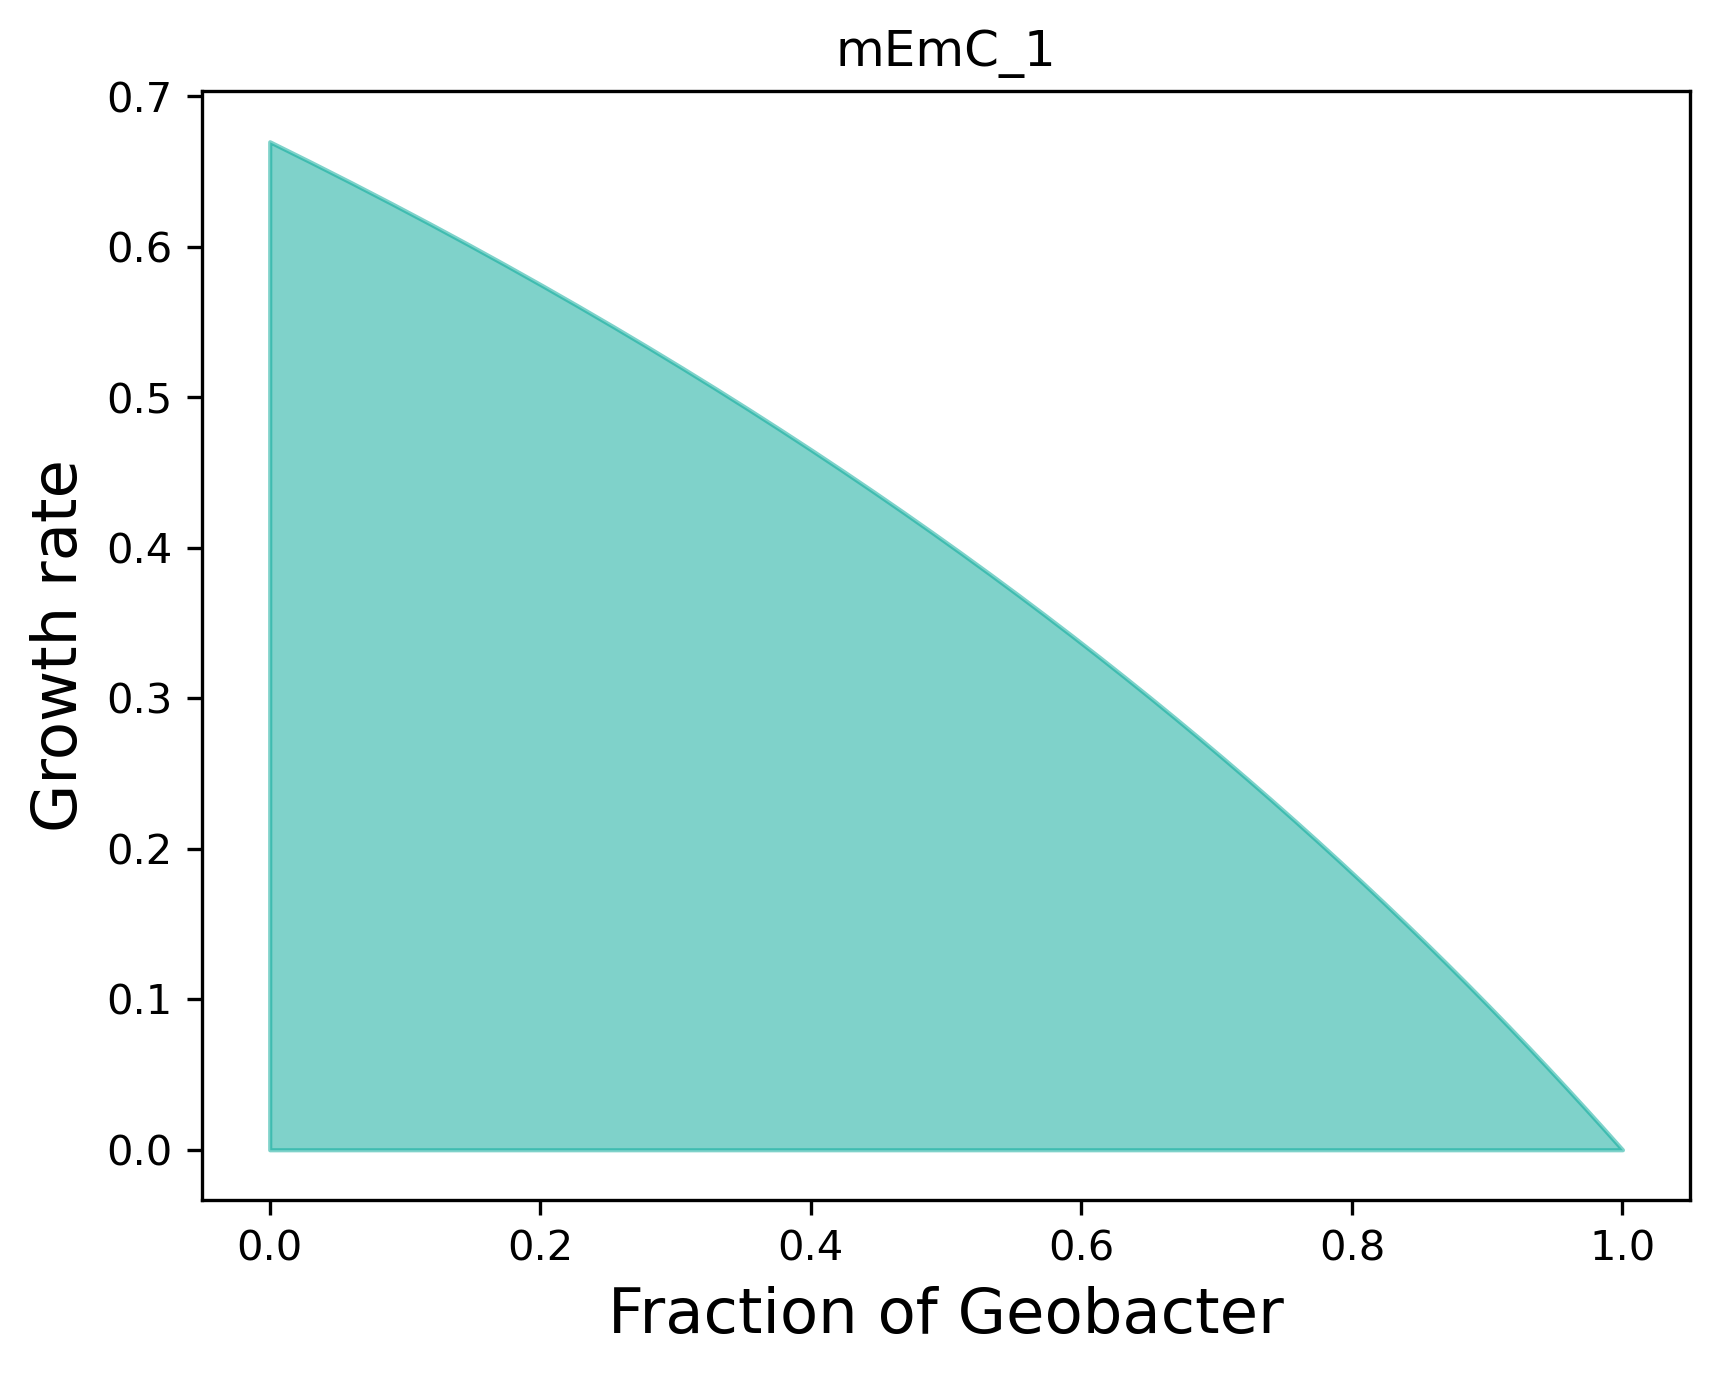
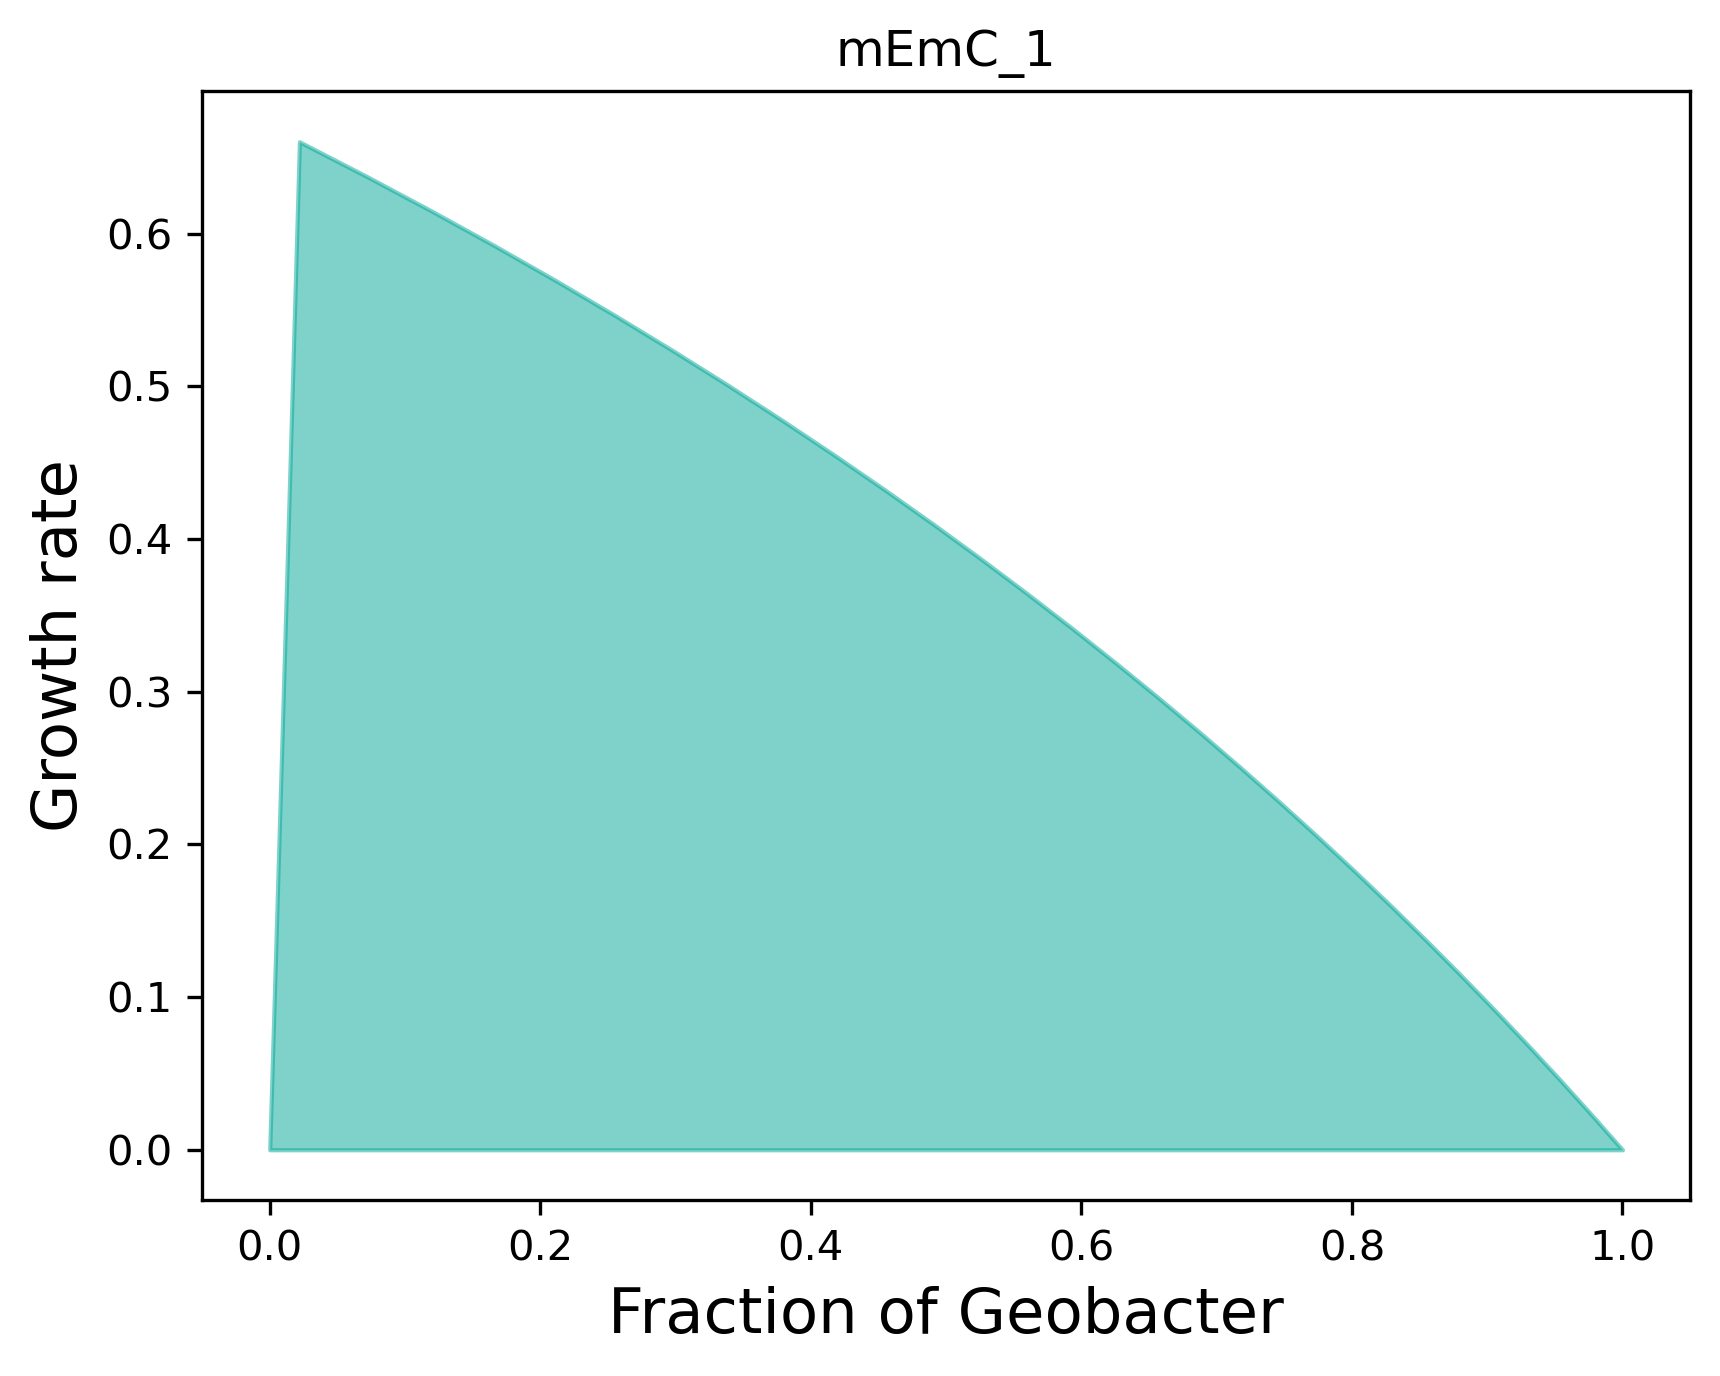
cleanup

diff --git a/README.md b/README.md
@@ -14,7 +14,10 @@ Runs ecmtool on each SBML file to compute the full conversion cone.
 * Filter ECMs down to the ones matching the pattern's cross-feeding scenario.
 * Combine both species' filtered ECMs into one matrix and run efmtool on it. The resulting EFMs are the elementary community modes - combinations of Geobacter and Rhodoferax ECMs - from which community composition (relative contribution of each species) is calculated.
 
-**Step 4: Validate against PyCoMo** (`analyse_deltas.ipynb`)
+**Step 4: Calculate composition ranges with PyCoMo** (`uranium_pycomo_v2.ipynb`)
+*  uses PyCoMo package to calculate the composition ranges with FVA.
+
+**Step 5: Plot composition ranges calculated with elementary modes / PyCoMo** (`analyse_deltas.ipynb`)
 Compares the composition ranges from Step 3 against independently computed PyCoMo composition ranges, and checks per-species biomass/product yields.
 
 **Toy example** (`toy_example.ipynb`)
